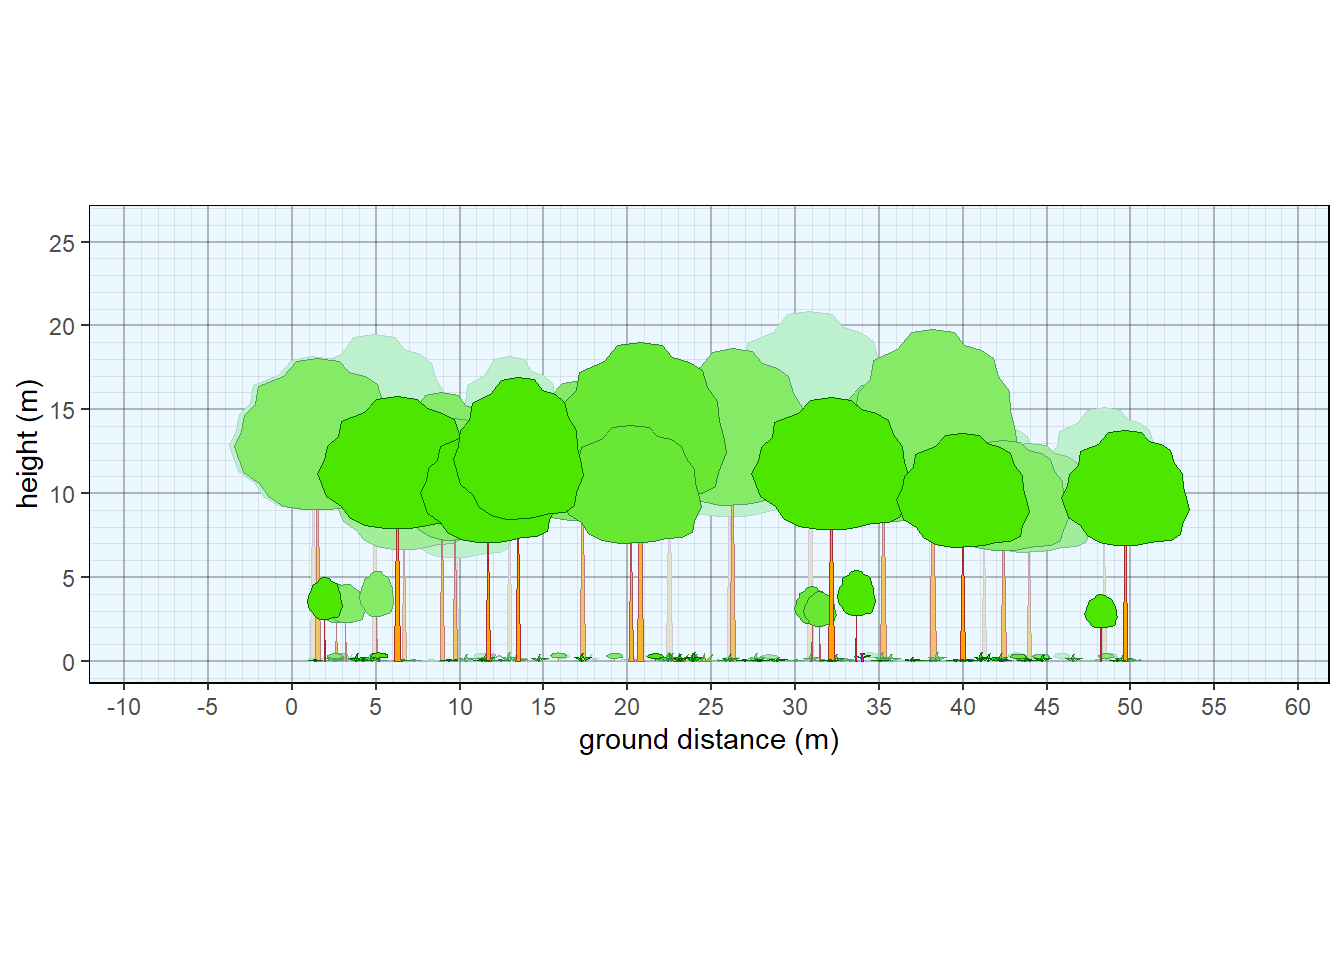
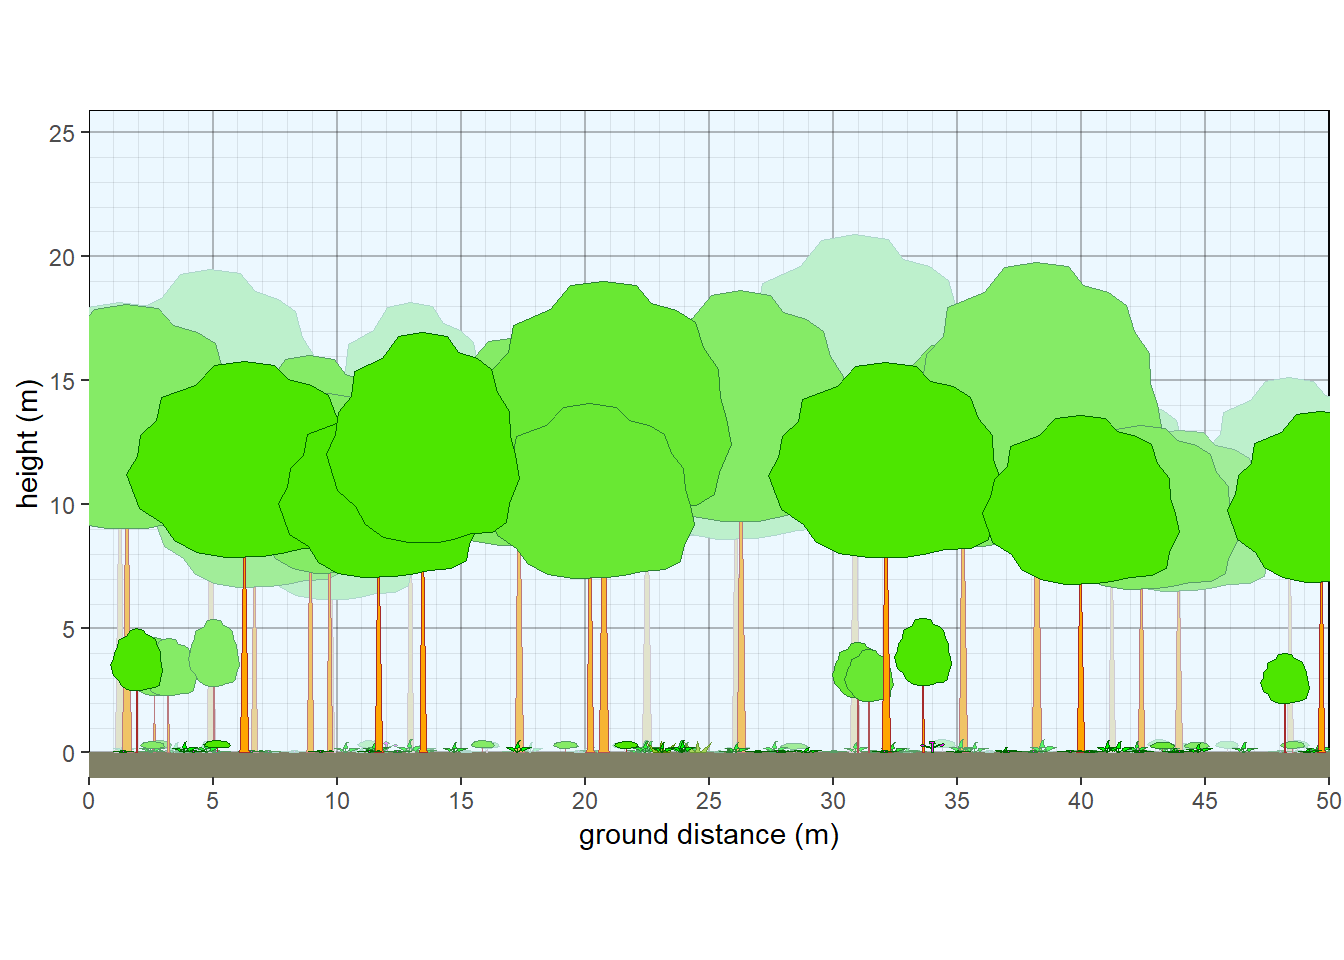
New parameters shown.

diff --git a/docs/vegetation-plant-profile-diagrams.html b/docs/vegetation-plant-profile-diagrams.html
@@ -303,7 +303,7 @@ Figure 7.3: Structure of a northern Michigan forest (transformed).
 <div class="sourceCode" id="cb29"><pre class="sourceCode r"><code class="sourceCode r"><span id="cb29-1"><a href="vegetation-plant-profile-diagrams.html#cb29-1" aria-hidden="true" tabindex="-1"></a>veg.select <span class="ot">&lt;-</span> <span class="fu">subset</span>(veg,  <span class="fu">grepl</span>(<span class="st">&#39;2022MI165023.P&#39;</span>,plot))</span>
 <span id="cb29-2"><a href="vegetation-plant-profile-diagrams.html#cb29-2" aria-hidden="true" tabindex="-1"></a>plants <span class="ot">&lt;-</span> <span class="fu">prepare_strata</span>(veg.select)</span>
 <span id="cb29-3"><a href="vegetation-plant-profile-diagrams.html#cb29-3" aria-hidden="true" tabindex="-1"></a></span>
-<span id="cb29-4"><a href="vegetation-plant-profile-diagrams.html#cb29-4" aria-hidden="true" tabindex="-1"></a><span class="fu">veg_profile_plot</span>(plants)</span></code></pre></div>
+<span id="cb29-4"><a href="vegetation-plant-profile-diagrams.html#cb29-4" aria-hidden="true" tabindex="-1"></a><span class="fu">veg_profile_plot</span>(plants, <span class="at">unit=</span><span class="st">&#39;m&#39;</span>,  <span class="at">skycolor =</span> <span class="st">&#39;white&#39;</span>, <span class="at">fadecolor =</span> <span class="st">&#39;lightgray&#39;</span>, <span class="at">gridalpha =</span> <span class="fl">0.1</span>, <span class="at">groundcolor =</span> <span class="st">&#39;darkgray&#39;</span>)</span></code></pre></div>
 <div class="figure"><span style="display:block;" id="fig:unnamed-chunk-22"></span>
 <img src="vegbook1_files/figure-html/unnamed-chunk-22-1.png" alt="Structure of northern Michigan mixed forest." width="672" />
 <p class="caption">
@@ -315,7 +315,7 @@ Figure 7.4: Structure of northern Michigan mixed forest.
 <h3><span class="header-section-number">7.2.5</span> Washington conifer forest<a href="vegetation-plant-profile-diagrams.html#washington-conifer-forest" class="anchor-section" aria-label="Anchor link to header"></a></h3>
 <div class="sourceCode" id="cb30"><pre class="sourceCode r"><code class="sourceCode r"><span id="cb30-1"><a href="vegetation-plant-profile-diagrams.html#cb30-1" aria-hidden="true" tabindex="-1"></a>veg.select <span class="ot">&lt;-</span> <span class="fu">subset</span>(veg,  <span class="fu">grepl</span>(<span class="st">&#39;2021WA031024&#39;</span>,plot))</span>
 <span id="cb30-2"><a href="vegetation-plant-profile-diagrams.html#cb30-2" aria-hidden="true" tabindex="-1"></a>plants <span class="ot">&lt;-</span> <span class="fu">prepare_strata</span>(veg.select)</span>
-<span id="cb30-3"><a href="vegetation-plant-profile-diagrams.html#cb30-3" aria-hidden="true" tabindex="-1"></a><span class="fu">veg_profile_plot</span>(plants)</span></code></pre></div>
+<span id="cb30-3"><a href="vegetation-plant-profile-diagrams.html#cb30-3" aria-hidden="true" tabindex="-1"></a><span class="fu">veg_profile_plot</span>(plants, <span class="at">unit=</span><span class="st">&#39;m&#39;</span>,  <span class="at">skycolor =</span> <span class="st">&#39;white&#39;</span>, <span class="at">fadecolor =</span> <span class="st">&#39;lightgray&#39;</span>, <span class="at">gridalpha =</span> <span class="fl">0.1</span>, <span class="at">groundcolor =</span> <span class="st">&#39;darkgray&#39;</span>)</span></code></pre></div>
 <div class="figure"><span style="display:block;" id="fig:unnamed-chunk-23"></span>
 <img src="vegbook1_files/figure-html/unnamed-chunk-23-1.png" alt="Structure of a Washington conifer forest." width="672" />
 <p class="caption">
@@ -325,6 +325,7 @@ Figure 7.5: Structure of a Washington conifer forest.
 </div>
 <div id="generic-oak-savanna" class="section level3 hasAnchor" number="7.2.6">
 <h3><span class="header-section-number">7.2.6</span> Generic oak savanna<a href="vegetation-plant-profile-diagrams.html#generic-oak-savanna" class="anchor-section" aria-label="Anchor link to header"></a></h3>
+<p>Many parameters can be adjusted.</p>
 <div class="sourceCode" id="cb31"><pre class="sourceCode r"><code class="sourceCode r"><span id="cb31-1"><a href="vegetation-plant-profile-diagrams.html#cb31-1" aria-hidden="true" tabindex="-1"></a><span class="co">#Make up savanna data</span></span>
 <span id="cb31-2"><a href="vegetation-plant-profile-diagrams.html#cb31-2" aria-hidden="true" tabindex="-1"></a>obsite <span class="ot">&lt;-</span> <span class="fu">c</span>(<span class="st">&#39;plot1&#39;</span>)</span>
 <span id="cb31-3"><a href="vegetation-plant-profile-diagrams.html#cb31-3" aria-hidden="true" tabindex="-1"></a>obsspp <span class="ot">&lt;-</span> <span class="fu">c</span>(<span class="st">&#39;Quercus macrocarpa&#39;</span>,<span class="st">&#39;Pteridium&#39;</span>, <span class="st">&#39;Festuca&#39;</span>, <span class="st">&#39;Andropogon&#39;</span>, <span class="st">&#39;Liatris&#39;</span>)</span>
@@ -337,7 +338,7 @@ Figure 7.5: Structure of a Washington conifer forest.
 <span id="cb31-10"><a href="vegetation-plant-profile-diagrams.html#cb31-10" aria-hidden="true" tabindex="-1"></a>mydata <span class="ot">&lt;-</span> mydata <span class="sc">|&gt;</span> <span class="fu">mutate</span>(<span class="at">taxon=</span>obsspp, <span class="at">cover=</span>abund, <span class="at">plot=</span>obsite, <span class="at">crown.max =</span> hts, <span class="at">dbh.max =</span> dbh)</span>
 <span id="cb31-11"><a href="vegetation-plant-profile-diagrams.html#cb31-11" aria-hidden="true" tabindex="-1"></a>veg <span class="ot">&lt;-</span> mydata <span class="sc">|&gt;</span> <span class="fu">pre.fill.veg</span>()</span>
 <span id="cb31-12"><a href="vegetation-plant-profile-diagrams.html#cb31-12" aria-hidden="true" tabindex="-1"></a>plants <span class="ot">&lt;-</span> <span class="fu">prepare_strata</span>(veg)</span>
-<span id="cb31-13"><a href="vegetation-plant-profile-diagrams.html#cb31-13" aria-hidden="true" tabindex="-1"></a><span class="fu">veg_profile_plot</span>(plants)</span></code></pre></div>
+<span id="cb31-13"><a href="vegetation-plant-profile-diagrams.html#cb31-13" aria-hidden="true" tabindex="-1"></a><span class="fu">veg_profile_plot</span>(plants, <span class="at">unit=</span><span class="st">&#39;m&#39;</span>,  <span class="at">skycolor =</span> <span class="fu">rgb</span>(<span class="fl">0.8</span>,<span class="fl">0.98</span>,<span class="dv">1</span>), <span class="at">fadecolor =</span> <span class="st">&#39;lightgray&#39;</span>, <span class="at">gridalpha =</span> <span class="fl">0.1</span>, <span class="at">groundcolor =</span> <span class="fu">rgb</span>(<span class="fl">0.55</span>,<span class="fl">0.45</span>,<span class="fl">0.2</span>))</span></code></pre></div>
 <div class="figure"><span style="display:block;" id="fig:unnamed-chunk-24"></span>
 <img src="vegbook1_files/figure-html/unnamed-chunk-24-1.png" alt="Structure of a generic oak savanna" width="672" />
 <p class="caption">
